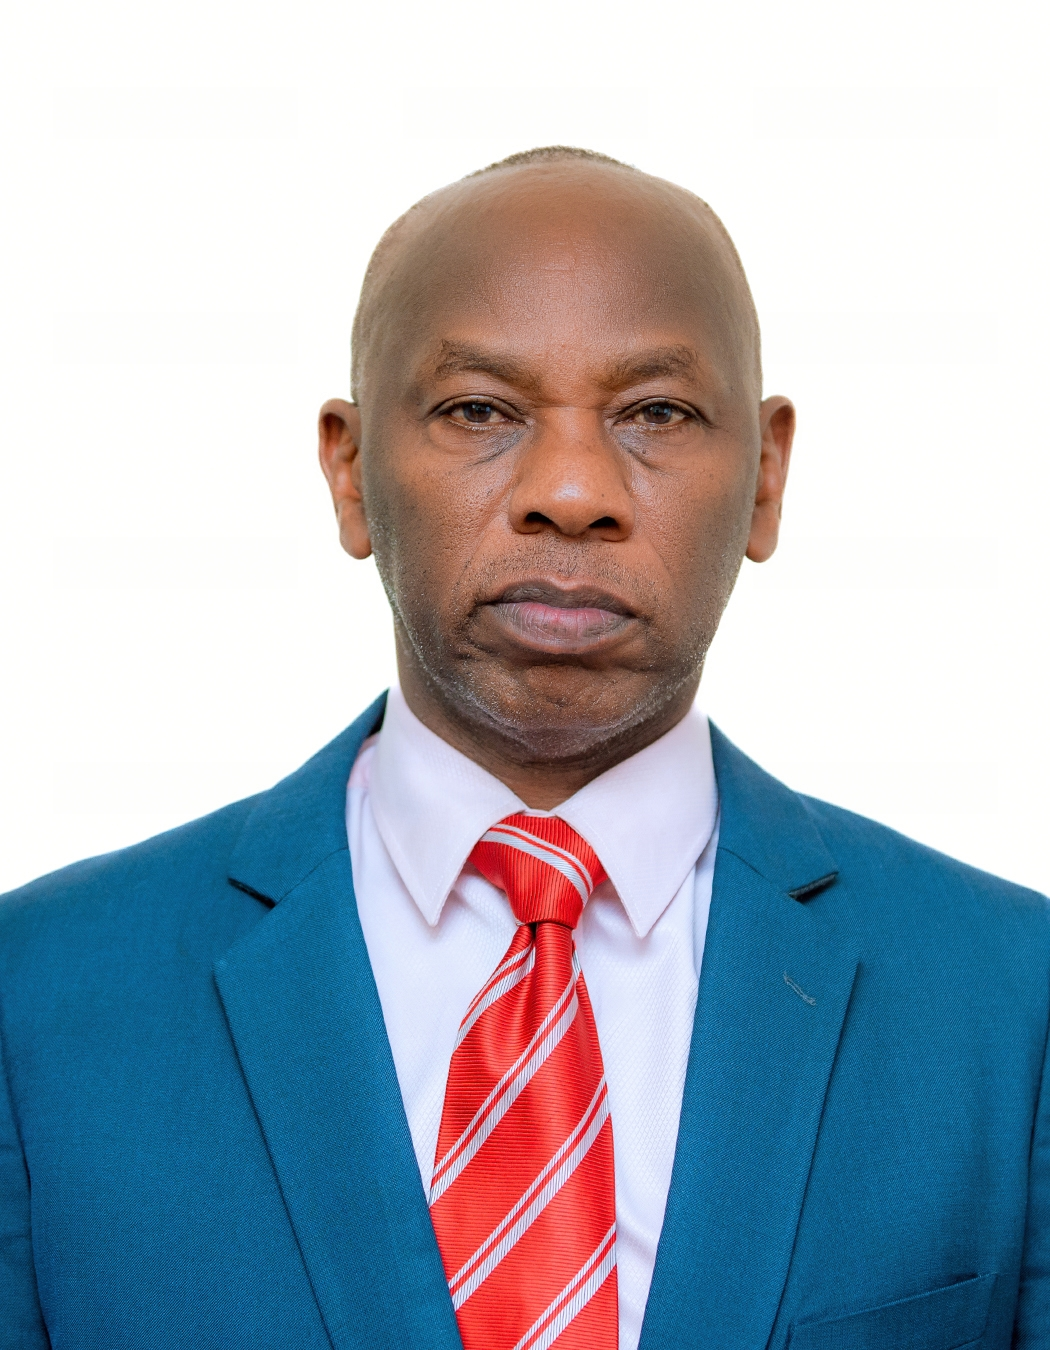
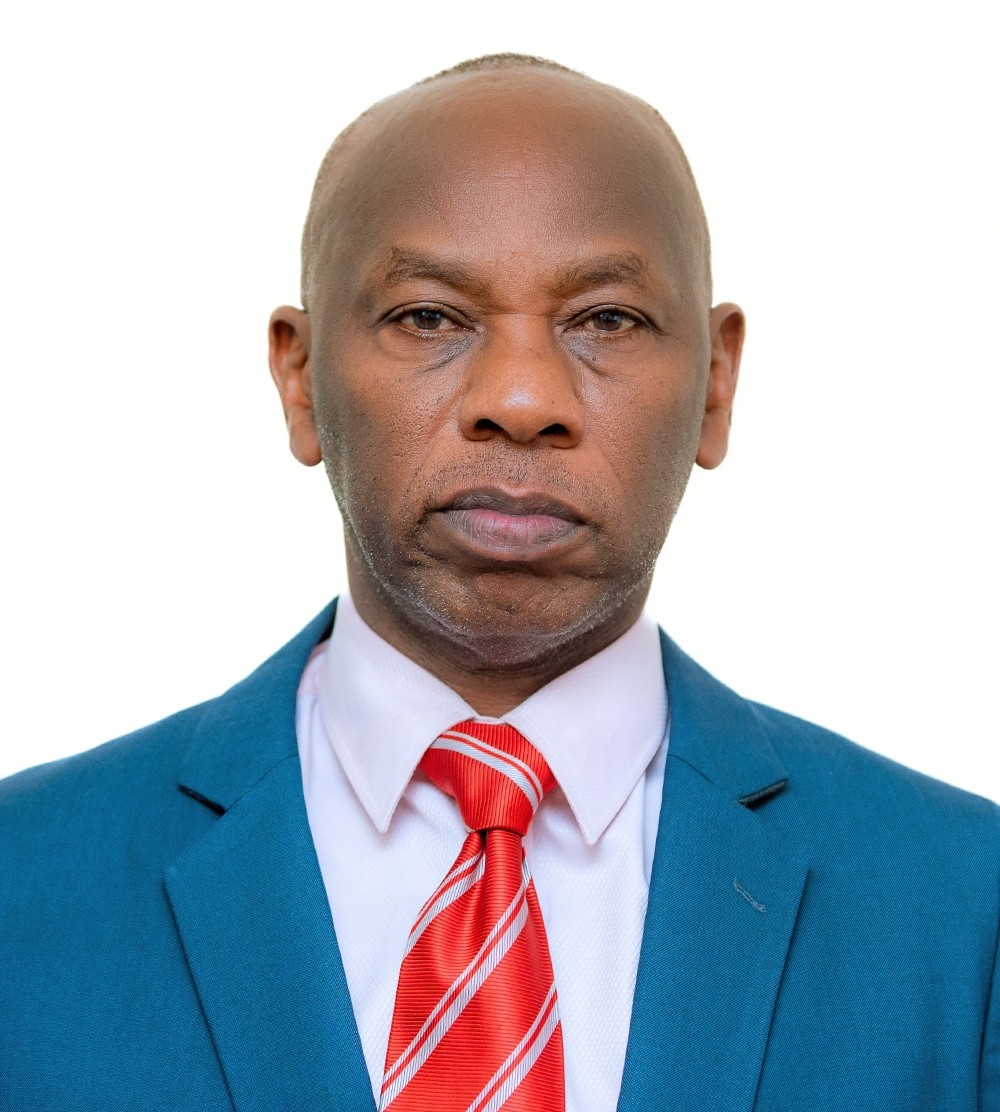
Fixed minor mistakes on team, blog images, responsiveness and compressed images

diff --git a/public/clients/css/style.css b/public/clients/css/style.css
@@ -531,7 +531,7 @@ a{
 .topbar-one-middle .topbar-info {
 	padding-left: 0;
 }
-@media(max-width: 1399px){
+@media(max-width: 1200px){
 	.topbar-one-middle .topbar-info{
 		display: none;
 	}
@@ -588,7 +588,7 @@ a{
 .topbar-right{
 	padding: 10px 0px;
 }
-@media(max-width: 1399px){
+@media(max-width: 1200px){
 	.topbar-right{
 		display: none;
 	}
@@ -749,7 +749,7 @@ a{
 	margin: 0;
 	padding: 0;
 }
-@media(max-width: 1399px){
+@media(max-width: 1200px){
 	.main-menu .main-menu-list{
 		display: none;
 	}
@@ -856,7 +856,7 @@ a{
 	margin-left: 30px;
 	margin-right: 30px;
 }
-@media (max-width: 1399px) {
+@media (max-width: 1200px) {
 	.mobile-menu-button{
 		display: block;		
 	}	
@@ -914,7 +914,7 @@ a.search-toggler{
 	margin-right: 40px;
 	padding: 12px 20px;
 }
-@media (max-width: 1399px) {
+@media (max-width: 1200px) {
 	.main-menu-right-button{
 		display: none;		
 	}	
@@ -923,7 +923,7 @@ a.search-toggler{
  color: var(--thm-white);
  padding: 10px 0px;
 }
-@media (max-width: 1399px) {
+@media (max-width: 1200px) {
 	.main-menu-right-button .btn-primary{
 		padding: 13px 20px;		
 	}	
@@ -936,7 +936,7 @@ a.search-toggler{
 	position: relative;
 	z-index: 99;
 }
-@media (max-width: 1399px) {
+@media (max-width: 1200px) {
 	.main-menu-one-inner {
 		background-color: inherit;
 		justify-content: end;
@@ -975,7 +975,7 @@ a.search-toggler{
 	margin-left: 15px;
 	background-color: var(--green-main);
 }
-@media(max-width: 1399px){
+@media(max-width: 1200px){
 	.topbar-one-button .btn-primary{
 		display: none;
 	}
@@ -1712,7 +1712,7 @@ a.search-toggler{
 	position: relative;
 	top: -140px;
 }
-@media (max-width: 1399px) {
+@media (max-width: 1200px) {
 	.about-image .img-one{
 		top: 0px;
 	}
@@ -1777,7 +1777,7 @@ a.search-toggler{
 	display: flex;
 	align-items: center;
 }
-@media (max-width: 1399px) {
+@media (max-width: 1200px) {
 	.about-image-caption-inner{
 		display: none;
 	}
@@ -1839,7 +1839,7 @@ a.search-toggler{
 	padding-left: 60px;
 	padding-top: 53px;
 }
-@media(max-width: 1399px){
+@media(max-width: 1200px){
 	.about-inner{
 		padding-top: 13px;
 	}
@@ -2061,7 +2061,7 @@ a.search-toggler{
 	padding-left: 60px;
 	padding-top: 20px;
 }
-@media (max-width: 1399px) {
+@media (max-width: 1200px) {
  .about-two-inner{
 		margin-left: 30px;
 	}
@@ -2116,7 +2116,7 @@ a.search-toggler{
 	display: flex;
 	align-items: center;
 }
-@media(max-width:1399px){
+@media(max-width:1200px){
 	.about-two-author-content{
 		display: block;
 	}
@@ -2131,7 +2131,7 @@ a.search-toggler{
 	flex-wrap: wrap;
 	align-items: center;
 }
-@media(max-width: 1399px){
+@media(max-width: 1200px){
 	.about-two-author-content-box{
 		margin-bottom: 20px;
 	}
@@ -2165,7 +2165,7 @@ a.search-toggler{
 .about-two-author-content-socials{
 	margin-left: 60px;
 }
-@media (max-width: 1399px) {
+@media (max-width: 1200px) {
  .about-two-author-content-socials{
 		margin-left: 0px;
 	}
@@ -3684,7 +3684,7 @@ a.search-toggler{
 	overflow: hidden;
 	position: relative;
 }
-@media (max-width: 1399px) {
+@media (max-width: 1200px) {
 	.cta-five-card {
 		display: block;
 		text-align: center;	
@@ -3705,7 +3705,7 @@ a.search-toggler{
 	justify-content: center;
 	margin-right: 50px;
 }
-@media (max-width: 1399px) {
+@media (max-width: 1200px) {
 	.cta-five-card-icon {
 		margin: 0 auto;
 		margin-bottom: 35px;
@@ -3725,7 +3725,7 @@ a.search-toggler{
 	font-size: 65px;
 	color: var(--thm-white);
 }
-@media (max-width: 1399px) {
+@media (max-width: 1200px) {
 	.cta-five-content {
 		margin-bottom: 30px
 	}
@@ -3986,7 +3986,7 @@ a.search-toggler{
 	background-color: var(--thm-light-bg);
 	padding: 120px 80px 110px;
 }
-@media (max-width: 1399px) {
+@media (max-width: 1200px) {
 	.event-section .event-section-inner {
 		padding: 80px 80px 60px;
 	}
@@ -4498,7 +4498,7 @@ a.search-toggler{
 	margin-bottom: 30px;
 }
 .team-card-img img{
-	min-height: 250px;
+	height: 210px;
 	width: 210px;
 	padding: 10px 10px;
 	background-color: var(--thm-white);
@@ -5212,7 +5212,7 @@ border-radius: 100px;
 		padding: 70px 0px;
 	}
 }
-@media(max-width: 1399px){
+@media(max-width: 1200px){
 	.causes-card-imgbox img{
 		width: 100%;
 	}
@@ -5439,7 +5439,7 @@ border-radius: 100px;
 	display: flex;
 	justify-content: center;
 }
-@media(max-width: 1399px){
+@media(max-width: 1200px){
 	.cause-two-box-button{
 		justify-content: left;
 	}
@@ -6039,7 +6039,7 @@ border-radius: 100px;
 .mobile-nav-toggler span{
 	background-color: var(--thm-black);
 }
-@media(max-width: 1399px){
+@media(max-width: 1200px){
  .menu-two .mobile-nav-toggler span{
 	 	background-color: var(--thm-white);
 	 }
@@ -6922,7 +6922,7 @@ label {
 	border: 1px dashed;
 	height: 72px;
 }
-@media(max-width: 1399px){
+@media(max-width: 1200px){
 	.history-card-meta:before{
 		display: none;
 	}
@@ -7029,7 +7029,7 @@ label {
 	bottom: 0;
 	top: 100px;
 }
-@media(max-width:1399px){
+@media(max-width:1200px){
 	.history-card-detail:before{
 		display: none;
 	}
@@ -7042,7 +7042,7 @@ label {
 	left: -101px;
 	width: 312px;
 }
-@media(max-width: 1399px){
+@media(max-width: 1200px){
 	.history-card-detail:after{
 		display: none;
 	}
@@ -7058,7 +7058,7 @@ label {
 	height: 154px;
 	bottom: 39px;
 }
-@media(max-width: 1399px){
+@media(max-width: 1200px){
 	.history-card-option:before{
 		display: none;
 	}
@@ -7071,7 +7071,7 @@ label {
 	bottom: 39px;
 	width: 314px;
 }
-@media(max-width: 1399px){
+@media(max-width: 1200px){
 	.history-card-option:after{
 		display: none;
 	}
@@ -7100,7 +7100,7 @@ label {
 .document-section{
 	padding: 100px 0px;
 }
-@media(max-width: 1399px){
+@media(max-width: 1200px){
 	.document-section{
 		padding: 70px 0px;
 	}
@@ -7112,7 +7112,7 @@ label {
 	width: 100%;
 	margin-top: 14px;
 }
-@media(max-width: 1399px){
+@media(max-width: 1200px){
 	.document-card img{
 		margin-top: 7px;
 	}
@@ -7205,7 +7205,7 @@ label {
 	background-color: var(--thm-primary);
 	outline: none;
 }
-@media(max-width: 1399px){
+@media(max-width: 1200px){
 	.document-section ul .nav-item{
 		margin-bottom: 10px;
 	}
@@ -7307,7 +7307,7 @@ label {
 .donate-box-image img{
 	width: 100%;
 }
-@media(max-width: 1399px){
+@media(max-width: 1200px){
 	.donate-box-image img{
 		width: 100%;
 	}
@@ -7375,7 +7375,7 @@ label {
 .donate-box-inner .btn-primary{
 	margin-top: 20px;
 }
-@media(max-width: 1399px){
+@media(max-width: 1200px){
 	.donation .btn-primary{
 		width: 100%;
 	}
